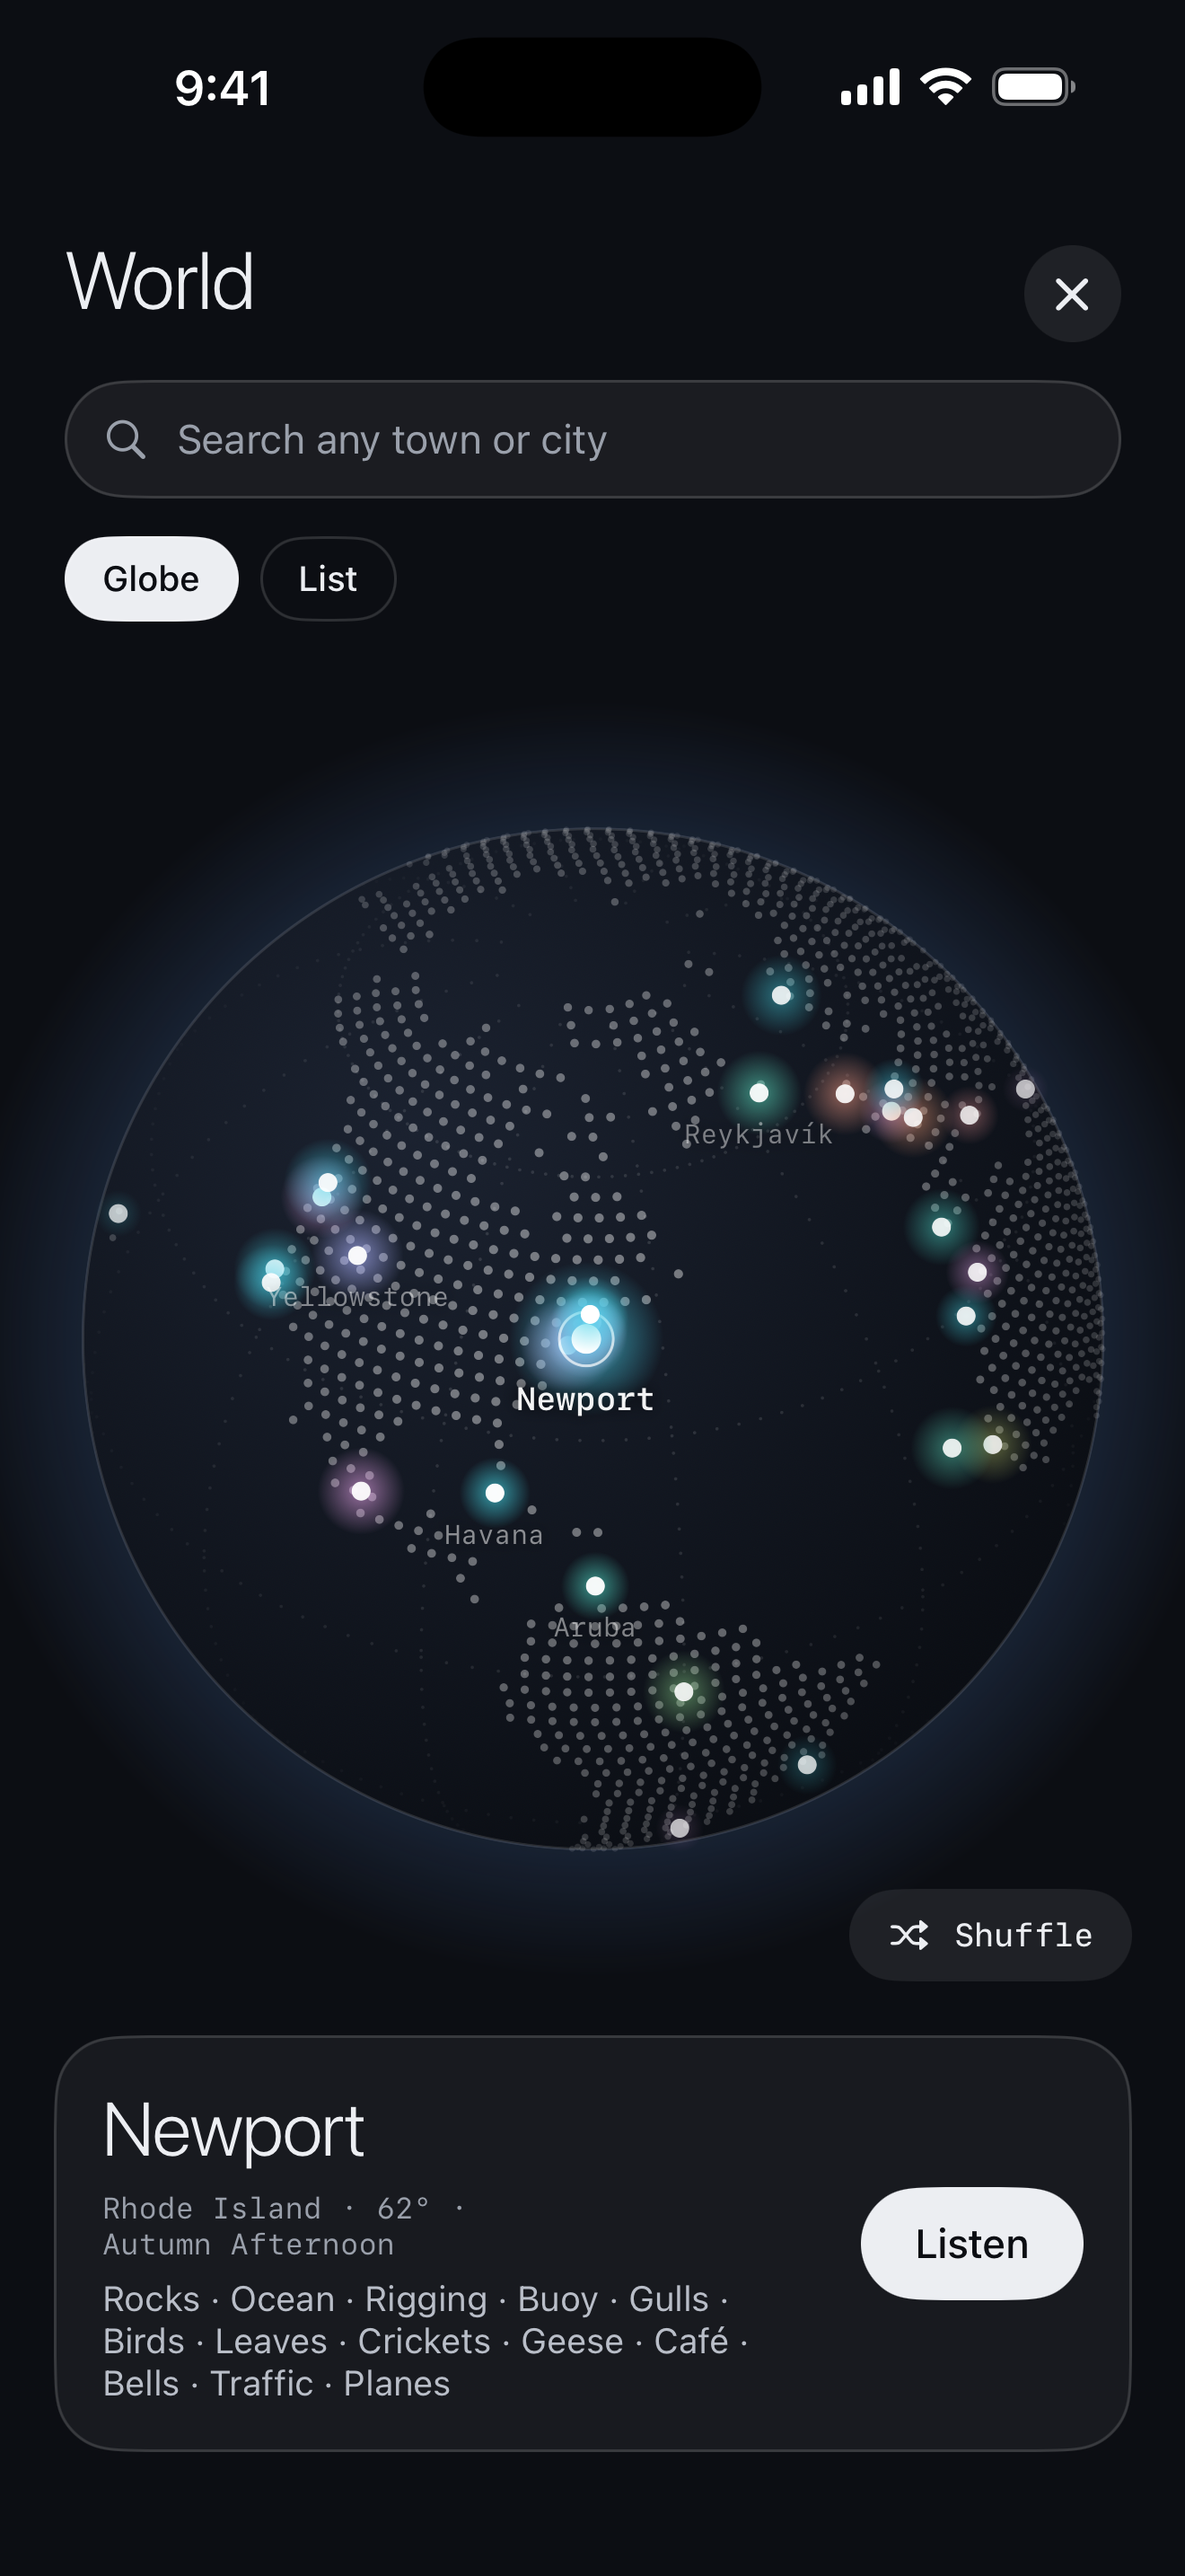
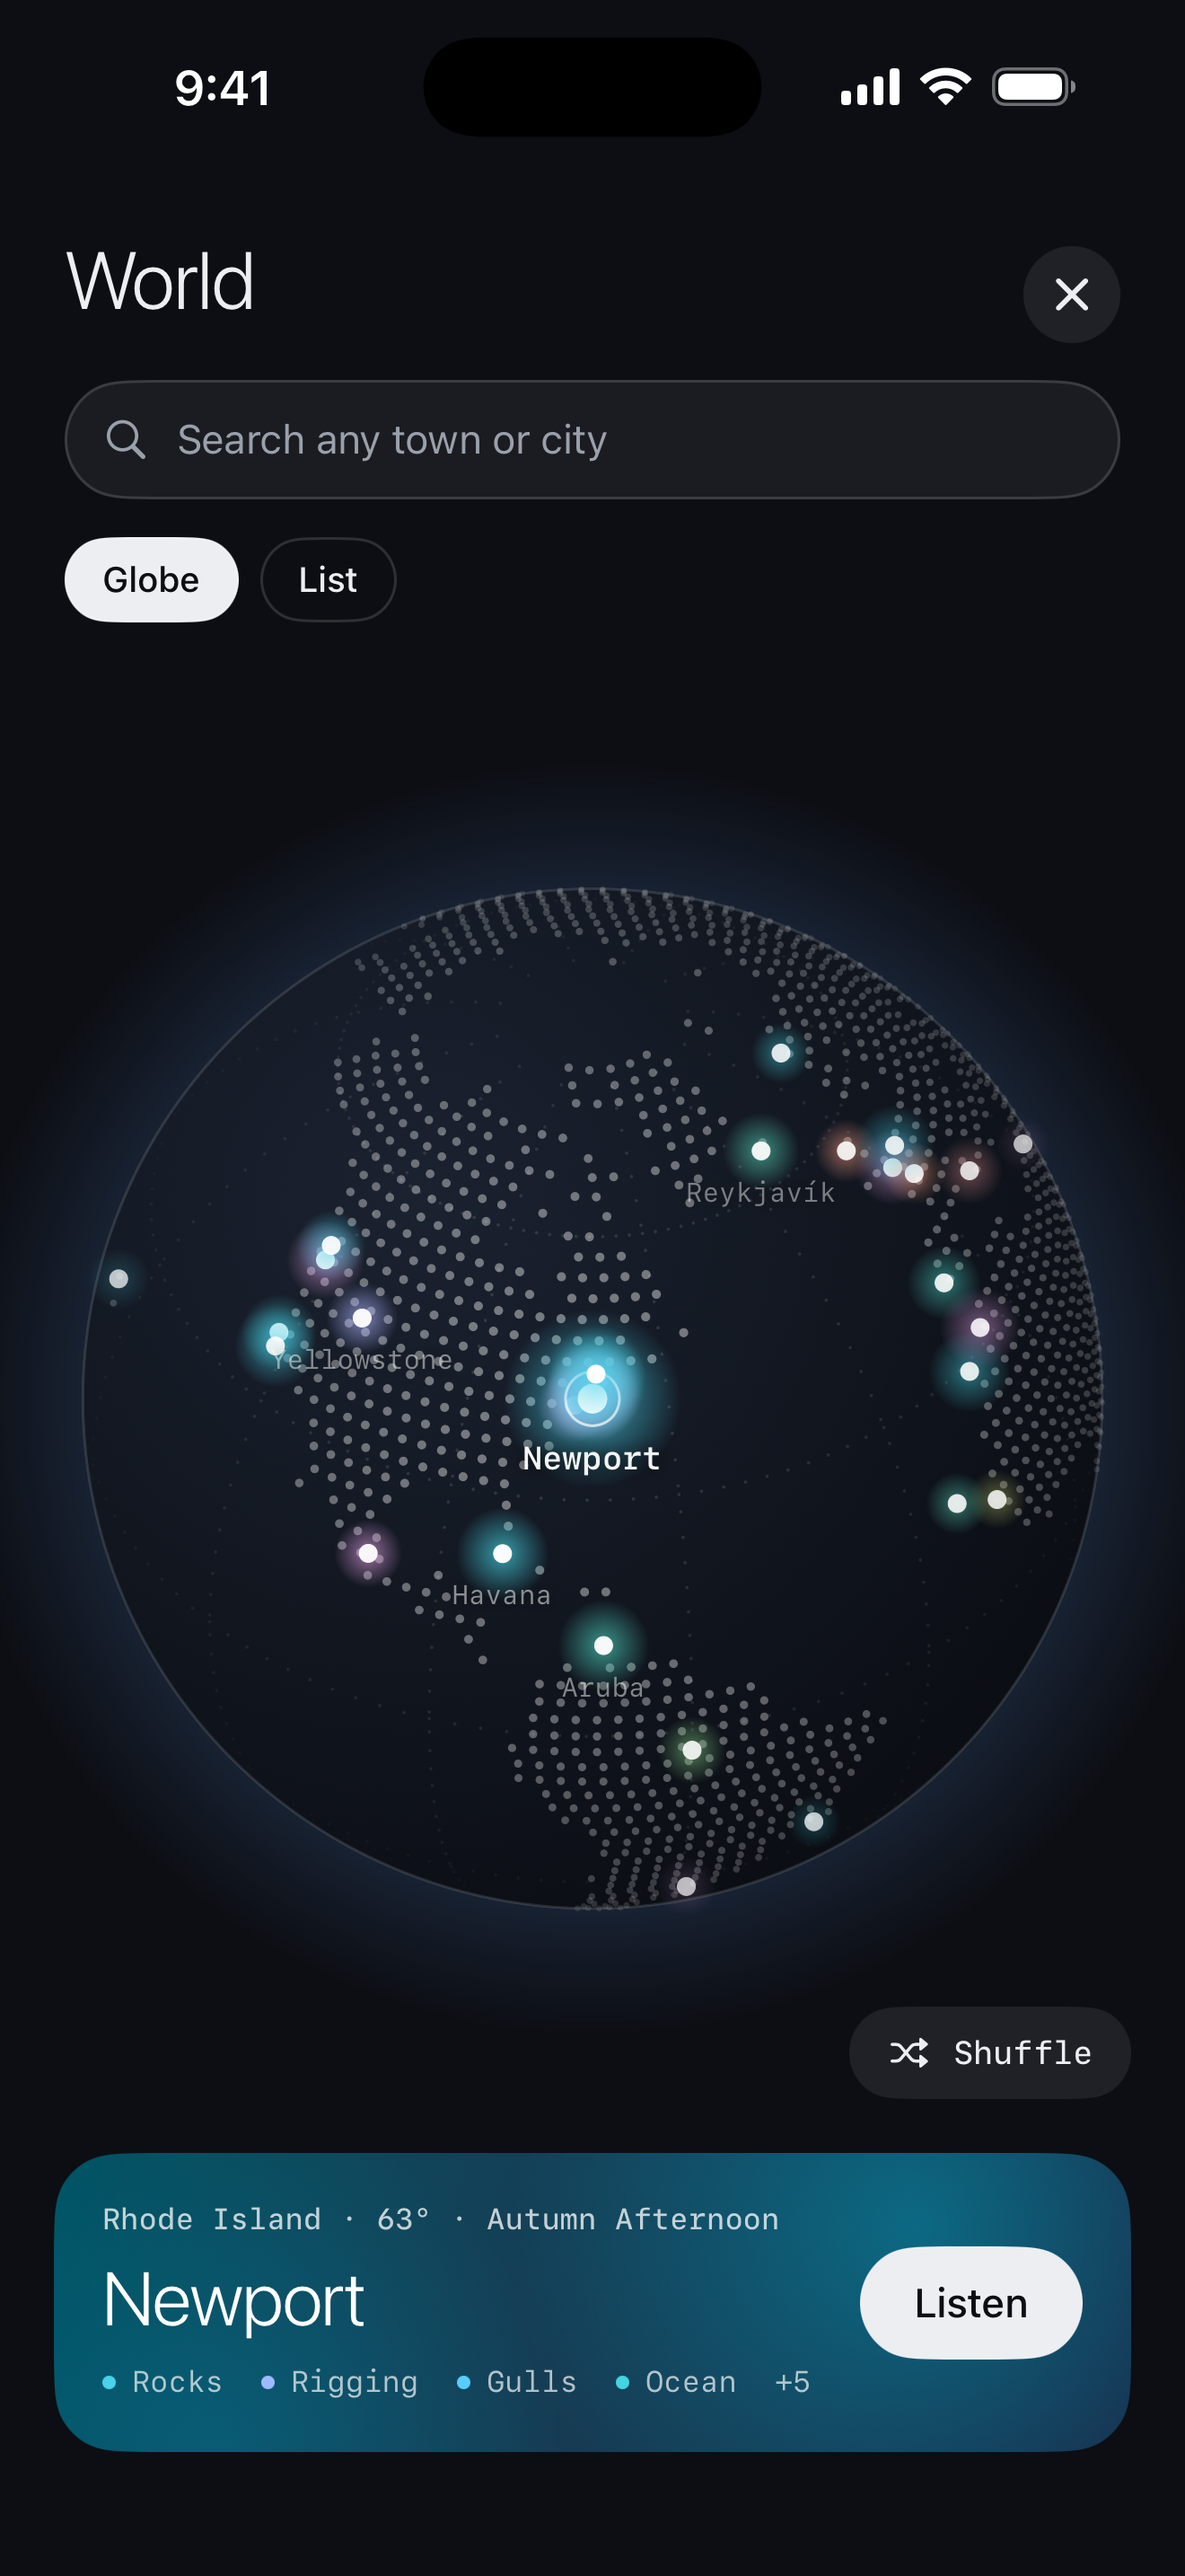
World on-brand: places as color cards, one line of sounds
The World list and the globe's place card listed every sound a place could ever make, in
monospace, wrapping over three or four lines. Places are now color cards like the Library's,
painted from the place's sounds right now: where it is, how warm and what time of year at the
top, the name, and its loudest sounds on one line of colored dots that never wraps. The
globe's card gets the same colors and line, beside Listen. ColorCard and CardWash are shared by
the Library and the World, and LayerStrip by them and Now Playing. The App Store globe shot
shows the new card.

diff --git a/Atmospherics/GlobeView.swift b/Atmospherics/GlobeView.swift
@@ -367,7 +367,8 @@ private struct GlobeCanvas: View {
 
 // MARK: Card and list
 
-/// The focused place: its live weather and what it sounds like, with a Listen button.
+/// The focused place, in the colors of its sounds right now: its weather and its loudest
+/// sounds on one line, with a Listen button.
 private struct PlaceCard: View {
     @Environment(Mixer.self) private var mixer
     let place: Place
@@ -375,17 +376,17 @@ private struct PlaceCard: View {
 
     var body: some View {
         let c = mixer.placeConditions[place.name]
-        HStack(alignment: .center, spacing: 16) {
+        let sounds = mixer.page(for: .place(place)).orbs.sorted { $0.volume > $1.volume }
+        let shape = RoundedRectangle(cornerRadius: 24, style: .continuous)
+        HStack(alignment: .center, spacing: 14) {
             VStack(alignment: .leading, spacing: 6) {
-                Text(place.title).font(Theme.display(28)).tracking(-0.6)
                 Text(c.map { "\(place.country) · \($0.temperature) · \($0.mixName)" } ?? place.country)
-                    .font(Theme.mono(11))
-                    .foregroundStyle(Theme.mono)
-                Text(place.signature.map(\.0.short).joined(separator: " · "))
-                    .font(Theme.body(13))
-                    .foregroundStyle(Theme.secondary)
+                    .font(Theme.mono(11, .medium))
+                    .foregroundStyle(.white.opacity(0.75))
+                    .lineLimit(1)
+                Text(place.title).font(Theme.display(28)).tracking(-0.6).lineLimit(1).minimumScaleFactor(0.7)
+                LayerStrip(orbs: sounds, color: .white.opacity(0.68))
             }
-            Spacer(minLength: 8)
             Button { listen(place) } label: {
                 Text("Listen")
                     .font(Theme.body(15, .medium))
@@ -397,9 +398,10 @@ private struct PlaceCard: View {
             .buttonStyle(.plain)
             .accessibilityLabel("Listen to \(place.title)")
         }
+        .foregroundStyle(.white)
         .padding(18)
-        .background(RoundedRectangle(cornerRadius: 24, style: .continuous).fill(.white.opacity(0.05)))
-        .overlay(RoundedRectangle(cornerRadius: 24, style: .continuous).strokeBorder(Theme.hairline, lineWidth: 1))
+        .background { CardWash(hues: sounds.prefix(3).map(\.kind.hue)) }
+        .clipShape(shape)
         .animation(.smooth(duration: 0.25), value: place)
     }
 }
@@ -411,7 +413,7 @@ private struct PlaceList: View {
 
     var body: some View {
         ScrollView {
-            LazyVStack(alignment: .leading, spacing: 0, pinnedViews: [.sectionHeaders]) {
+            LazyVStack(alignment: .leading, spacing: 10, pinnedViews: [.sectionHeaders]) {
                 ForEach(Place.Region.allCases, id: \.self) { region in
                     Section {
                         ForEach(mixer.allPlaces.filter { $0.region == region }) { place in
@@ -434,33 +436,15 @@ private struct PlaceList: View {
         .scrollIndicators(.hidden)
     }
 
+    /// A card in the colors of the place's sounds right now: where and how warm at the top, the
+    /// name, and its loudest sounds on one line.
     private func row(_ place: Place) -> some View {
         let c = mixer.placeConditions[place.name]
         let current = place == mixer.escape?.place && mixer.mode == .escape
-        return HStack(spacing: 14) {
-            Circle()
-                .fill(place.accent.orb)
-                .frame(width: 10, height: 10)
-                .shadow(color: place.accent.glow, radius: 6)
-            VStack(alignment: .leading, spacing: 3) {
-                Text(place.title).font(Theme.body(17))
-                Text(place.signature.map(\.0.short).joined(separator: " · "))
-                    .font(Theme.mono(11))
-                    .foregroundStyle(Theme.mono)
-            }
-            Spacer()
-            VStack(alignment: .trailing, spacing: 3) {
-                Text(c?.temperature ?? "–").font(Theme.mono(13))
-                Text(c?.mixName ?? "").font(Theme.mono(10)).foregroundStyle(Theme.mono)
-            }
-            if current {
-                Image(systemName: "speaker.wave.2.fill").font(.system(size: 12)).foregroundStyle(Theme.mono)
-            }
-        }
-        .padding(.vertical, 12)
-        .contentShape(Rectangle())
-        .overlay(alignment: .bottom) { Rectangle().fill(.white.opacity(0.07)).frame(height: 1) }
-        .accessibilityElement(children: .combine)
+        let sounds = mixer.page(for: .place(place)).orbs.sorted { $0.volume > $1.volume }
+        let top = [place.country, c?.temperature, c?.mixName].compactMap { $0 }.filter { !$0.isEmpty }.joined(separator: " · ")
+        return ColorCard(hues: sounds.prefix(3).map(\.kind.hue), top: top, title: place.title, sounds: sounds,
+                         badge: current ? (mixer.isPlaying ? "Playing" : "Here") : nil, outlined: current, minHeight: 112)
     }
 }
 

diff --git a/Atmospherics/ColorCard.swift b/Atmospherics/ColorCard.swift
@@ -1,0 +1,78 @@
+import SwiftUI
+
+/// A card in the colors of a set of sounds, for the Library's mixes and the World's places: a
+/// small line at the top, the name at the bottom, and under it either a line of text or the
+/// sounds themselves on one line. Outlined when it's what's playing.
+struct ColorCard: View {
+    let hues: [Double]
+    let top: String
+    let title: String
+    var subtitle: String? = nil
+    /// The sounds to show under the title, loudest first, instead of a subtitle.
+    var sounds: [Orb]? = nil
+    var badge: String? = nil
+    var outlined = false
+    var minHeight: CGFloat = 132
+
+    var body: some View {
+        let shape = RoundedRectangle(cornerRadius: 22, style: .continuous)
+        VStack(alignment: .leading, spacing: 0) {
+            HStack {
+                Text(top)
+                    .font(Theme.mono(11, .medium))
+                    .foregroundStyle(.white.opacity(0.75))
+                    .lineLimit(1)
+                Spacer()
+                if let badge {
+                    Text(badge)
+                        .font(Theme.mono(10, .medium))
+                        .padding(.vertical, 4)
+                        .padding(.horizontal, 9)
+                        .background(Capsule().fill(.black.opacity(0.3)))
+                }
+            }
+            Spacer(minLength: 18)
+            Text(title)
+                .font(Theme.body(21))
+                .lineLimit(1)
+            if let sounds {
+                LayerStrip(orbs: sounds, color: .white.opacity(0.68))
+                    .padding(.top, 6)
+            } else if let subtitle {
+                Text(subtitle)
+                    .font(Theme.mono(10.5))
+                    .foregroundStyle(.white.opacity(0.62))
+                    .lineLimit(1)
+                    .padding(.top, 4)
+            }
+        }
+        .foregroundStyle(.white)
+        .padding(16)
+        .frame(maxWidth: .infinity, minHeight: minHeight, alignment: .leading)
+        .background { CardWash(hues: hues) }
+        .clipShape(shape)
+        .overlay { if outlined { shape.strokeBorder(.white.opacity(0.6), lineWidth: 1.2) } }
+        .contentShape(shape)
+        .accessibilityElement(children: .combine)
+    }
+}
+
+/// The colors of a card: its loudest sound's hue, glowing, over a deeper second and third.
+struct CardWash: View {
+    let hues: [Double]
+
+    var body: some View {
+        let first = hues.first ?? 250
+        let second = hues.count > 1 ? hues[1] : first
+        let third = hues.count > 2 ? hues[2] : second
+        ZStack {
+            LinearGradient(colors: [.oklch(0.4, 0.085, first), .oklch(0.27, 0.06, second)],
+                           startPoint: .topLeading, endPoint: .bottomTrailing)
+            RadialGradient(colors: [.oklch(0.62, 0.12, first).opacity(0.55), .clear],
+                           center: UnitPoint(x: 0.8, y: 0.25), startRadius: 0, endRadius: 150)
+            RadialGradient(colors: [.oklch(0.55, 0.11, third).opacity(0.35), .clear],
+                           center: UnitPoint(x: 0.15, y: 1), startRadius: 0, endRadius: 130)
+        }
+        .animation(.smooth(duration: 0.4), value: hues)
+    }
+}

diff --git a/Atmospherics/LibraryView.swift b/Atmospherics/LibraryView.swift
@@ -120,53 +120,11 @@ struct LibraryView: View {
 
     /// A card in the colors of its mix: what it's for and how long at the top, its name at the bottom.
     private func row(_ preset: Preset) -> some View {
-        let hues = preset.mix.prefix(3).map(\.0.hue)
-        let first = hues.first ?? 250
-        let second = hues.count > 1 ? hues[1] : first
-        let third = hues.count > 2 ? hues[2] : second
         let current = preset.id == mixer.activePreset?.id
-        let shape = RoundedRectangle(cornerRadius: 22, style: .continuous)
-        return VStack(alignment: .leading, spacing: 0) {
-            HStack {
-                Text(preset.tag.map { "\($0.rawValue) · \(preset.length)" } ?? "Yours")
-                    .font(Theme.mono(11, .medium))
-                    .foregroundStyle(.white.opacity(0.75))
-                Spacer()
-                if current {
-                    Text(mixer.isPlaying ? "Playing" : "Current")
-                        .font(Theme.mono(10, .medium))
-                        .padding(.vertical, 4)
-                        .padding(.horizontal, 9)
-                        .background(Capsule().fill(.black.opacity(0.3)))
-                }
-            }
-            Spacer(minLength: 22)
-            Text(preset.name)
-                .font(Theme.body(21))
-                .lineLimit(1)
-            Text(preset.description)
-                .font(Theme.mono(10.5))
-                .foregroundStyle(.white.opacity(0.62))
-                .lineLimit(1)
-                .padding(.top, 4)
-        }
-        .foregroundStyle(.white)
-        .padding(16)
-        .frame(maxWidth: .infinity, minHeight: 132, alignment: .leading)
-        .background {
-            ZStack {
-                LinearGradient(colors: [.oklch(0.4, 0.085, first), .oklch(0.27, 0.06, second)],
-                               startPoint: .topLeading, endPoint: .bottomTrailing)
-                RadialGradient(colors: [.oklch(0.62, 0.12, first).opacity(0.55), .clear],
-                               center: UnitPoint(x: 0.8, y: 0.25), startRadius: 0, endRadius: 150)
-                RadialGradient(colors: [.oklch(0.55, 0.11, third).opacity(0.35), .clear],
-                               center: UnitPoint(x: 0.15, y: 1), startRadius: 0, endRadius: 130)
-            }
-        }
-        .clipShape(shape)
-        .overlay { if current { shape.strokeBorder(.white.opacity(0.6), lineWidth: 1.2) } }
-        .contentShape(shape)
-        .accessibilityElement(children: .combine)
+        return ColorCard(hues: preset.mix.prefix(3).map(\.0.hue),
+                         top: preset.tag.map { "\($0.rawValue) · \(preset.length)" } ?? "Yours",
+                         title: preset.name, subtitle: preset.description,
+                         badge: current ? (mixer.isPlaying ? "Playing" : "Current") : nil, outlined: current)
     }
 }
 

diff --git a/Atmospherics/NowPlayingView.swift b/Atmospherics/NowPlayingView.swift
@@ -377,8 +377,9 @@ private struct PageLines: View {
 
 /// The sounds playing, loudest first, each with a dot in its light's color. Always one line:
 /// as many as fit, then "+2" for the rest, so it never wraps.
-private struct LayerStrip: View {
+struct LayerStrip: View {
     let orbs: [Orb]
+    var color: Color = Theme.mono
 
     private var kinds: [SoundKind] {
         var seen = Set<SoundKind>()
@@ -395,7 +396,7 @@ private struct LayerStrip: View {
             }
         }
         .font(Theme.mono(11))
-        .foregroundStyle(Theme.mono)
+        .foregroundStyle(color)
         .frame(maxWidth: .infinity, minHeight: 16, alignment: .leading)
         .accessibilityElement(children: .ignore)
         .accessibilityLabel(kinds.map(\.name).joined(separator: ", "))
